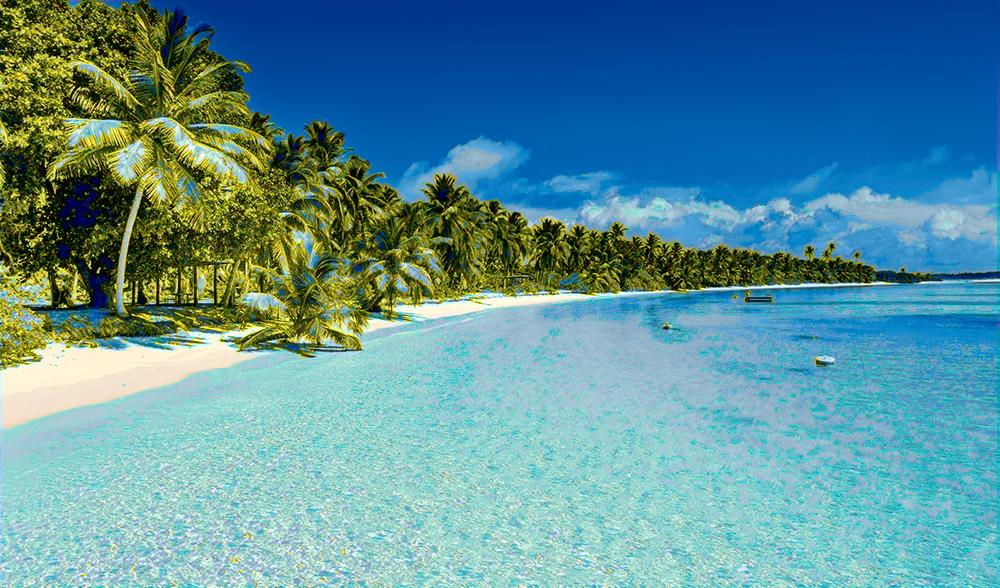
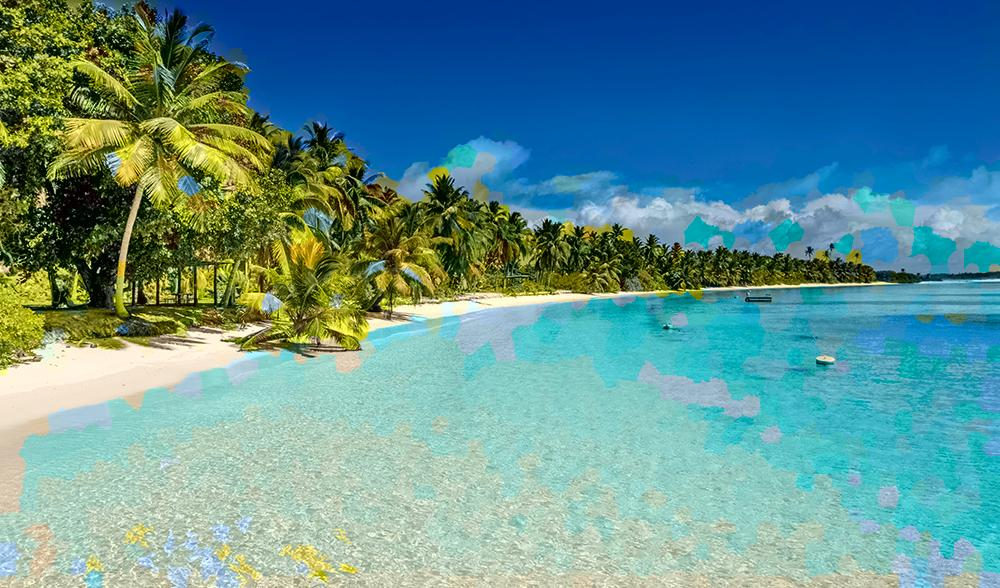
Superpixel matching visualization

diff --git a/src/initialize.m b/src/initialize.m
@@ -20,6 +20,7 @@ figs.LabelsImage = 52;
 figs.AnalysisInput = 53;
 figs.CandidatesImage = 54;
 figs.TargetSP = 55;
+figs.SourceSP = 56;
 
 %% Input data (source and target images)
 [source.image, target.image] = LoadImages(IP.sourceFile, IP.targetFile, IP.dataFolder);
@@ -44,11 +45,12 @@ source.luminance = luminance_remap(source.lab, target.luminance, IP.sourceFile =
 % source.luminance = source.lab(:,:,1)/100;
 
 %% Superpixel extraction
+nSP = 2000;
 
 if (IP.COL_METHOD == 2)
     disp('Superpixel extraction');
-    [source.sp, ~] = superpixels(source.luminance, 2000);
-    [target.sp, ~] = superpixels(target.luminance, 2000);
+    [source.sp, ~] = superpixels(source.luminance, nSP);
+    [target.sp, ~] = superpixels(target.luminance, nSP);
     
     source.lin_sp = reshape(source.sp, size(source.image, 1)*size(source.image, 2), 1);
     target.lin_sp = reshape(target.sp, size(target.image, 1)*size(target.image, 2), 1);
@@ -56,6 +58,8 @@ if (IP.COL_METHOD == 2)
     if (OO.PLOT)
         figure(figs.TargetSP); imshow(imoverlay(target.image, boundarymask(target.sp)));
         title('Target superpixels');
+        figure(figs.SourceSP); imshow(imoverlay(source.image, boundarymask(source.sp)));
+        title('Source superpixels');
     end
 end
 
@@ -117,6 +121,7 @@ disp('Feature extraction'); tic;
 [samples.fv, samples.fv_w] = FeatureExtraction(source.luminance, IP.features, samples.idxs);
 
 if (IP.COL_METHOD == 2)
+    %Superpixel feature averaging.
     tgt_nSP = max(target.lin_sp);
     src_nSP = max(source.lin_sp);
     
@@ -130,8 +135,7 @@ if (IP.COL_METHOD == 2)
         samples.fv_sp(:,i) = mean(samples.fv(:, source.lin_sp == i), 2);
     end
 
-    clear target.fv
-    clear samples.fv
+    clear target.fv; clear samples.fv
 end
 
 toc;
@@ -219,7 +223,7 @@ switch IP.COL_METHOD
     [tgt_lab, tiesIdx, cddt_list] = CopyClosestFeatureInClassColor(samples, target, clusters);
     
     case 2
-    tgt_lab = CopySuperpixelColor(samples, source, target);
+    [tgt_lab, matches_list] = CopySuperpixelColor(samples, source, target);
     
     otherwise
     disp('Invalid COL_METHOD');
@@ -238,29 +242,54 @@ if (OO.PLOT)
     end
 end
 
-%% Analysis
-%Generate candidate source image
-figure(figs.CandidatesImage);
-imshow(source.image); title('Source candidates');
+%% Analysis (TODO: create function)
 
-%Generate cursor input image
-fig = figure(figs.AnalysisInput); 
-imshow(tgt_rgb); title('Colorized result (index)');
-datacursormode on;
-dcm_obj = datacursormode(fig);
+if (IP.COL_METHOD ~= 2)
+    %Generate candidate source image
+    figure(figs.CandidatesImage);
+    imshow(source.image); title('Source candidates');
 
-%Arguments for Analysis Tool
-AnalysisArguments.sourceSize = size(source.luminance);
-% AnalysisArguments.sourceImage = source.image;
-AnalysisArguments.cddt_list = cddt_list;
-AnalysisArguments.targetSize = size(target.luminance);
-AnalysisArguments.targetFS = target.fv;
-AnalysisArguments.fCandidatesImage = figs.CandidatesImage;
-AnalysisArguments.fCandidatesFS = figs.LabelsFS;
-set(0,'userdata',AnalysisArguments);
+    %Generate cursor input image
+    fig = figure(figs.AnalysisInput); 
+    imshow(tgt_rgb); title('Colorized result (indexing)');
+    datacursormode on;
+    dcm_obj = datacursormode(fig);
+    
+    %Arguments for Analysis Tool
+    AnalysisArguments.sourceSize = size(source.luminance);
+    % AnalysisArguments.sourceImage = source.image;
+    AnalysisArguments.cddt_list = cddt_list;
+    AnalysisArguments.targetSize = size(target.luminance);
+    AnalysisArguments.targetFS = target.fv;
+    AnalysisArguments.fCandidatesImage = figs.CandidatesImage;
+    AnalysisArguments.fCandidatesFS = figs.LabelsFS;
+    set(0,'userdata',AnalysisArguments);
 
-%Overwrite update function
-set(dcm_obj, 'UpdateFcn', @MyAnalysisTool)
+    %Overwrite update function
+    set(dcm_obj, 'UpdateFcn', @MyAnalysisTool)
+else
+    figure(figs.SourceSP);
+    imshow(imoverlay(source.image, boundarymask(source.sp, 4), 'w')); 
 
+    
+    %Generate cursor input image
+    fig = figure(figs.AnalysisInput); 
+    imshow(imoverlay(tgt_rgb, boundarymask(target.sp, 4), 'w')); 
+    title('Colorized superpixel result (indexing)');
+    datacursormode on;
+    dcm_obj = datacursormode(fig);
+    
+    AnalysisArguments.sourceSuperpixels = source.sp;
+    AnalysisArguments.targetSuperpixels = target.sp;
+    AnalysisArguments.matchesList = matches_list;
+    AnalysisArguments.fSourceSP = figs.SourceSP;
+    AnalysisArguments.targetSize = size(target.luminance);
+
+    set(0,'userdata',AnalysisArguments);
+    
+    set(dcm_obj, 'UpdateFcn', @SuperpixelMatchVisualization)
+end
+    
 %% Save Output images
+
 imwrite(tgt_rgb, ['./../results/' IP.targetFile]);

diff --git a/src/CopySuperpixelColor.m b/src/CopySuperpixelColor.m
@@ -1,25 +1,25 @@
-function lab_out = CopySuperpixelColors(samples, source, target)
+function [lab_out, matches] = CopySuperpixelColors(samples, source, target)
 %Perform superpixel matching followed by transfer (TBD)
 % -Histogram based ?
 
 %Superpixel matching
-[bspfspt, dists] = knnsearch(samples.fv_sp', target.fv_sp');
+[matches, dists] = knnsearch(samples.fv_sp', target.fv_sp');
 
+%Output image
 lab_out = zeros([size(target.image) 3]);
 lab_out(:,:,1) = target.luminance*100;
 
-figure;
-for i = 1:length(bspfspt)
+for i = 1:length(matches)
 %     figure(55);
-    src_mask = (source.sp==bspfspt(i));
+    src_mask = (source.sp==matches(i));
     tgt_mask = (target.sp==i);
     
 %     subplot(1,2,1);
 %     imshow(target.image.*~tgt_mask);
 %     subplot(1,2,2);
 %     imshow(source.luminance.*~src_mask);
-    
-    %Prototype color transfer
+
+    %Prototype color transfer (Superpixel average)
     for c = 2:3
         mask_c = source.lab(:,:,c).*src_mask;
         mu_sp = sum(sum(mask_c))/length(find(mask_c));

diff --git a/src/FeatureExtraction.m b/src/FeatureExtraction.m
@@ -51,7 +51,7 @@ if (activeFeats(3))
     nFilters = size(gaborMag, 3);
     for i = 1:nFilters
         aux = gaborMag(:,:,i);
-        imshow(aux);
+%         imshow(aux);
         FeatVectors = [FeatVectors;
                        minmaxNormalization(aux(idxs), false)];
     end
@@ -106,18 +106,10 @@ if (activeFeats(7))
     disp('Testing...');
 end
 
-%% Normalize Features
-
-%Each column of coeff contains coefficients for one principal component
-%and the columns are in descending order of component variance. 
-% By default, pca centers the data and uses the singular value decomposition (SVD) algorithm.
-% coeff = pca(FeatVectors');
-
 featWeights = featWeights/sum(featWeights);
 % featWeights = ones(length(featWeights),1);
 
 end
-
 
 function Y = minmaxNormalization(X, vec)
 %Computes the minmax of a set of samples

diff --git a/src/SuperpixelMatchVisualization.m b/src/SuperpixelMatchVisualization.m
@@ -1,0 +1,33 @@
+function txt = SuperpixelMatchVisualization(~, event_obj)
+%TODO
+pos = event_obj.Position;
+udata = get(0, 'userdata');
+
+fSourceSP = udata.fSourceSP; 
+t_sp = udata.targetSuperpixels;
+s_sp = udata.sourceSuperpixels;
+tgt_size = udata.targetSize;
+matches = udata.matchesList;
+
+%Current cursor linear index (target)
+lin_idx = sub2ind(tgt_size, pos(2), pos(1));
+
+%Superpixel of current cursor position
+idx_t_sp = t_sp(lin_idx);
+
+%Matching superpixel from source
+match = matches(idx_t_sp);
+
+%Image show and Wait for click on Source image
+figure(fSourceSP); hold on;
+source_match = (s_sp == match);
+[rs, cs] = find(source_match);
+h = scatter(cs, rs, '.r'); hold off;
+waitforbuttonpress; 
+delete(h); 
+
+%Return text tooltip.
+txt = {['R = ' num2str(pos(2)) ', C = ' num2str(pos(1))]};
+
+end
+

diff --git a/src/CopyClosestFeatureInClassColor.m b/src/CopyClosestFeatureInClassColor.m
@@ -2,7 +2,7 @@ function [lab_out, tiesIdx, candidates] = CopyClosestFeatureInClassColor(samples
 %Performs a classification on each pixel and assigns either the color of 
 %the the class centroid or the color of theclosest pixel in feature space
 %from the class it was assigned during classification.
-kK = 10;
+kK = 11;
 
 %Indexing
 l_idxs = sub2ind(samples.sourceSize, samples.idxs(1,:), samples.idxs(2,:));
@@ -19,6 +19,11 @@ lab_out = zeros(size(target.image));
 lab_out(:,:,1) = target.luminance*100;
 
 %% Transfer
+%Weights test:
+% ws = repmat(samples.fv_w, 1, size(samples.fv, 2));
+% wt = repmat(target.fv_w, 1, size(target.fv, 2));
+% [bsft, dists] = knnsearch((ws.*samples.fv)', (wt.*target.fv)', 'K', kK);
+
 %best samples for each target
 [bsft, dists] = knnsearch(samples.fv', target.fv', 'K', kK);
 

diff --git a/scripts/resize_image.m b/scripts/resize_image.m
@@ -1,0 +1,11 @@
+%Resize images to reduce cost.
+
+img_name = 'beach2';
+img_format = '.jpg';
+
+im = imread(['./../data/' img_name img_format]);
+
+im_rs = imresize(im, 0.5);
+imshow(im_rs);
+
+imwrite(im_rs, ['./../data/' img_name '_rs' img_format]);
